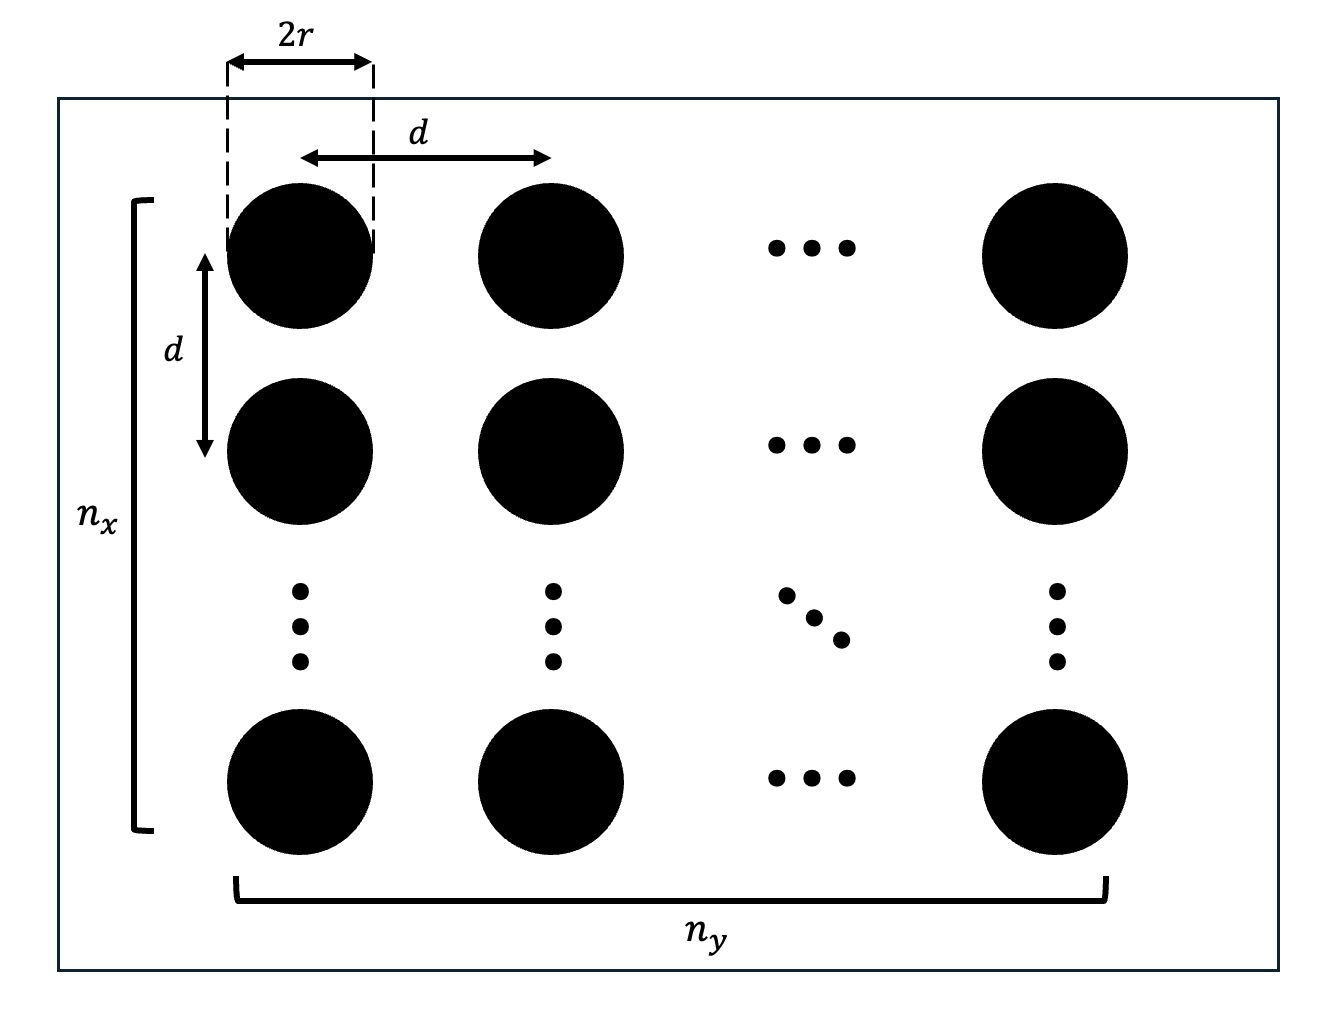
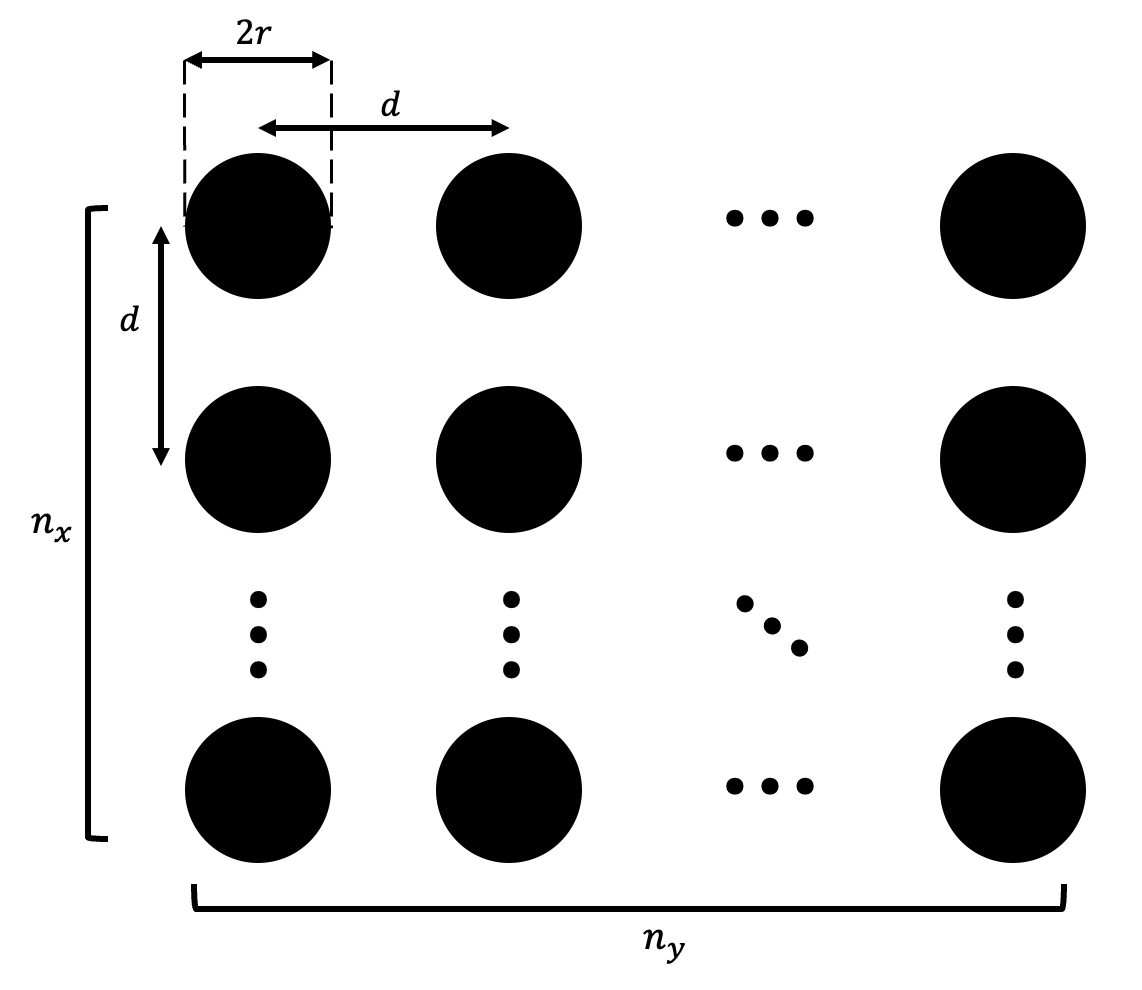
update readme

diff --git a/README.md b/README.md
@@ -54,7 +54,7 @@ kx_n \\ ky_n \\ 1
 Calibration results: $f_x, f_y, c_x, c_y, \eta, d_1, d_2, ... d_n$
 
 ## 1. Calibration Target
-<img src="./docs/figs/board2.png" width="60%">
+<img src="./docs/figs/board.png" width="60%">
 
 Our method needs a planer white board on which black circle grid patterns are printed. 
 You can easily design these patterns in this [site](https://calib.io/pages/camera-calibration-pattern-generator).
@@ -88,7 +88,7 @@ The larger the radius of the circle, the more accurate the observations become. 
 	make
 
 	## Run
-	./main.out [n_x] [n_y] [n_d] [img_dir_path] [radius(m)] [circle distance(m)]
+	./main.out [n_x] [n_y] [n_d] [img_dir_path] [radius(m)] [distance(m)]
 	(ex) ./main.out 4 3 3 ../sample_imgs/rgb12/ 0.035 0.09
 	(ex) ./main.out 4 3 4 ../sample_imgs/tir12/ 0.03 0.09
 
